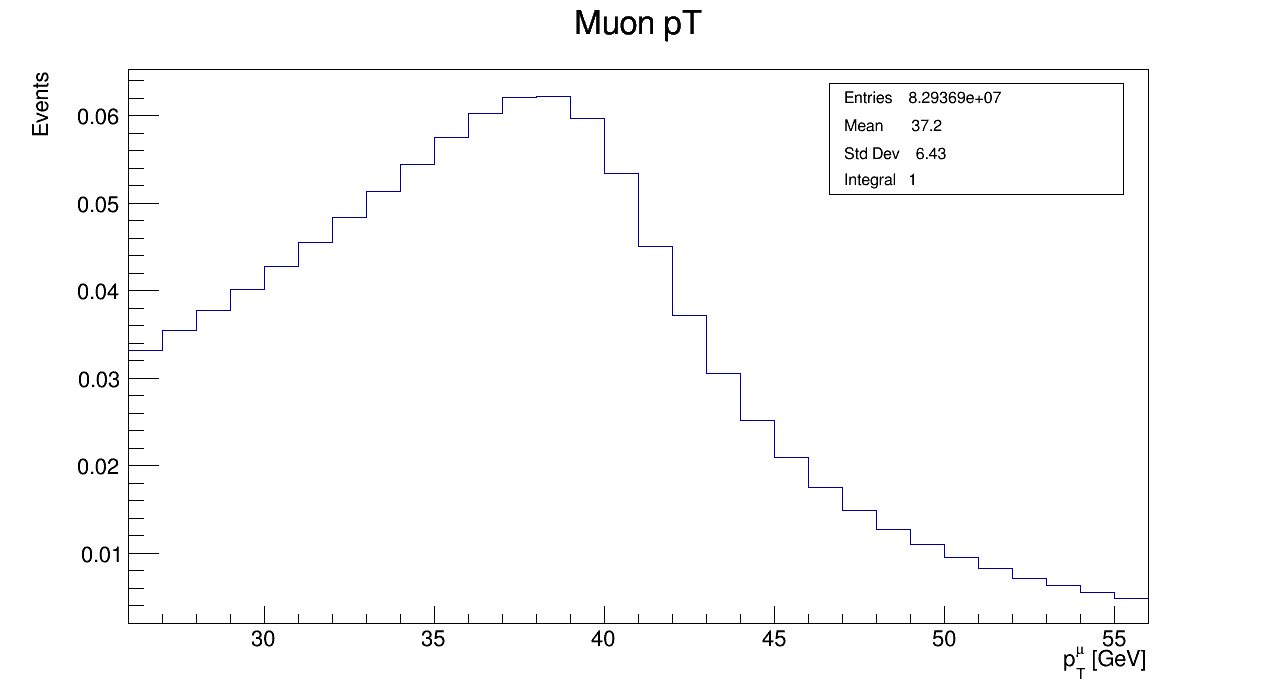
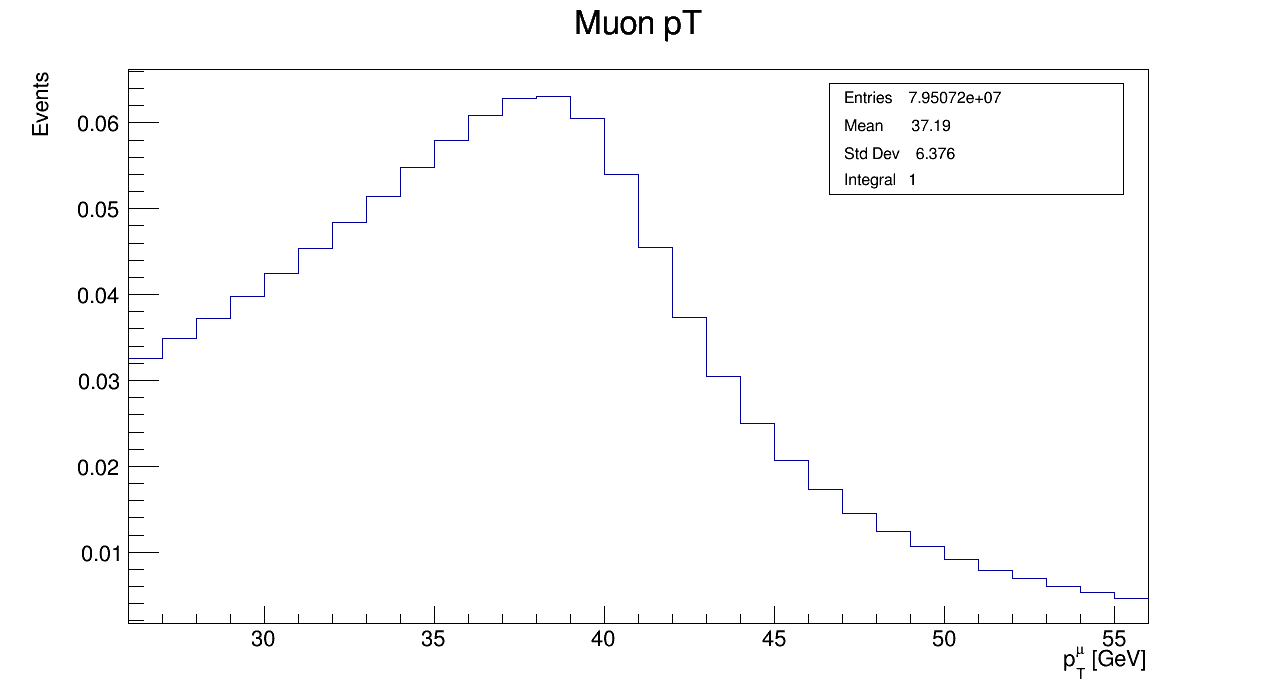
correzione errori concettuali generazione di eta del bosoneW e sui tagli di accettanza

diff --git a/src/WDecaySampler.cpp b/src/WDecaySampler.cpp
@@ -22,8 +22,25 @@ WDecaySampler::WDecaySampler(double WMass, double WWidth, const Generator * cons
 }
 
 template<std::invocable Func>
-double generate_random_eta(double eta_min, double eta_max, Func&& rand) {
-    return (rand() * (eta_max - eta_min) + eta_min);
+double generate_random_gaussian(double mean, double sigma,Func&& rand)
+{
+    double u1 = rand();
+    double u2 = rand();
+
+    while (u1 <= 0.0)
+        u1 = rand();
+
+    double z = std::sqrt(-2.0 * std::log(u1))
+             * std::cos(2.0 * M_PI * u2);
+
+    return mean + sigma * z;
+}
+
+template<std::invocable Func>
+double generate_random_eta(Func&& rand) {
+    //TODO: definire una distribuzione effettiva
+
+    return generate_random_gaussian(0, 2, rand);
 }
 
 template<std::invocable Func>
@@ -51,7 +68,7 @@ double generate_random_phi(Func&& rand) {
     return rand() * 2.0 * M_PI;
 } 
 
-double WDecaySampler::operator()() const
+std::pair<double,double> WDecaySampler::operator()() const
 {
     thread_local auto rand = [](){
         thread_local std::mt19937 gen(
@@ -63,7 +80,9 @@ double WDecaySampler::operator()() const
     };
 
     double pTW{ (*pT_local_generators[ThreadID::get()])() };
-    double eta{ generate_random_eta(ETA_MIN, ETA_MAX, rand) };
+
+    //eta ancora non ben specificato
+    double eta{ generate_random_eta(rand) };
     double phi{ generate_random_phi(rand)};
     double invariant_mass{ generate_random_invariant_mass(WMass, WWidth, rand) };
     auto muon_p{ generate_random_muon_p_rest_frame(invariant_mass, MUON_MASS, rand) };
@@ -79,7 +98,8 @@ double WDecaySampler::operator()() const
     ROOT::Math::Boost boost(beta);
     muon_p = boost(muon_p);
 
-    return muon_p.Pt();
+    return { muon_p.Pt(), muon_p.Eta() };
+
 }
 PT_Generator::PT_Generator()
 {

diff --git a/src/SpectrumBuilder.cpp b/src/SpectrumBuilder.cpp
@@ -6,10 +6,14 @@ SpectrumBuilder::SpectrumBuilder(const WDecaySampler& sampler, std::size_t event
 {
     ROOT::RDataFrame df{ event_count };
 
-    auto h_muon_pt = df.Define("muon_pT", [&sampler](){
+    auto h_muon_pt = df.Define("muon", [&sampler](){
         return sampler();
     })
-    .Filter([=](double muon_pT){ return muon_pT > MIN_MUON_PT && muon_pT < MAX_MUON_PT;}, {"muon_pT"})
+    .Define("muon_pT", [](std::pair<double, double> muon){ return muon.first; }, {"muon"})
+    .Define("muon_eta", [](std::pair<double, double> muon){ return muon.second; }, {"muon"})
+    .Filter([=](double muon_pT, double muon_eta){
+         return (muon_pT > MIN_MUON_PT && muon_pT < MAX_MUON_PT) &&
+                (muon_eta > MIN_ETA && muon_eta < MAX_ETA);}, {"muon_pT", "muon_eta"})
     .Histo1D({
         "h_pt",
         "Muon pT;p_{T}^{#mu} [GeV];Events",

diff --git a/include/WDecaySampler.hpp b/include/WDecaySampler.hpp
@@ -62,12 +62,10 @@ public:
     WDecaySampler(WDecaySampler&&) = default;
     WDecaySampler& operator=(WDecaySampler&&) = default;
 
-    double operator()() const;
+    std::pair<double, double> operator()() const;
 
     ~WDecaySampler() = default;
 
-    static constexpr double ETA_MIN = -2.4;
-    static constexpr double ETA_MAX = 2.4;
     static constexpr double MUON_MASS = 0.105658; // GeV/c^2
 private:
     double WMass, WWidth;

diff --git a/include/SpectrumBuilder.hpp b/include/SpectrumBuilder.hpp
@@ -19,6 +19,9 @@ public:
 
     static constexpr double MIN_MUON_PT = 26.0; // GeV/c
     static constexpr double MAX_MUON_PT = 56.0; // GeV/c
+    static constexpr double MIN_ETA = -2.4;
+    static constexpr double MAX_ETA = 2.4;
+
     static constexpr std::size_t BIN_COUNT = 30; 
     
     TH1D* getHist() const;
